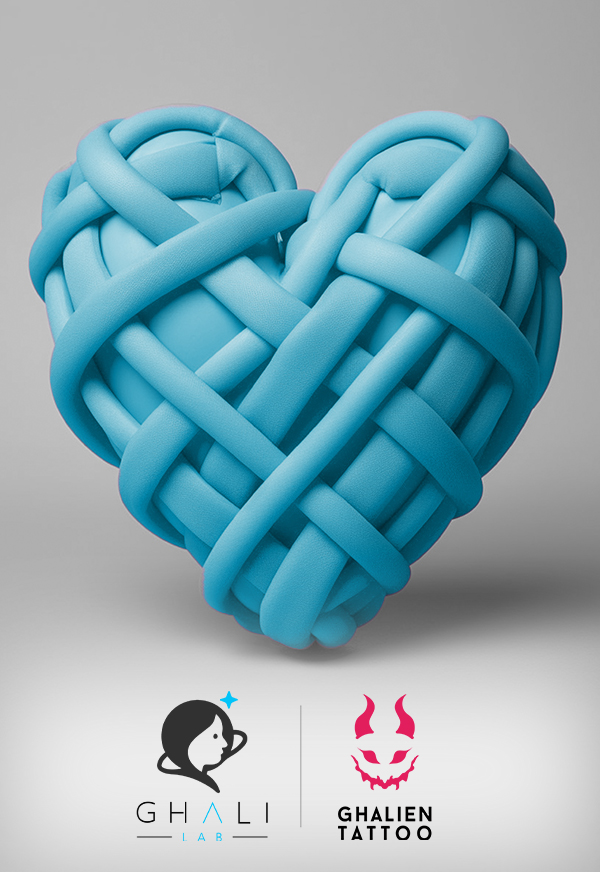
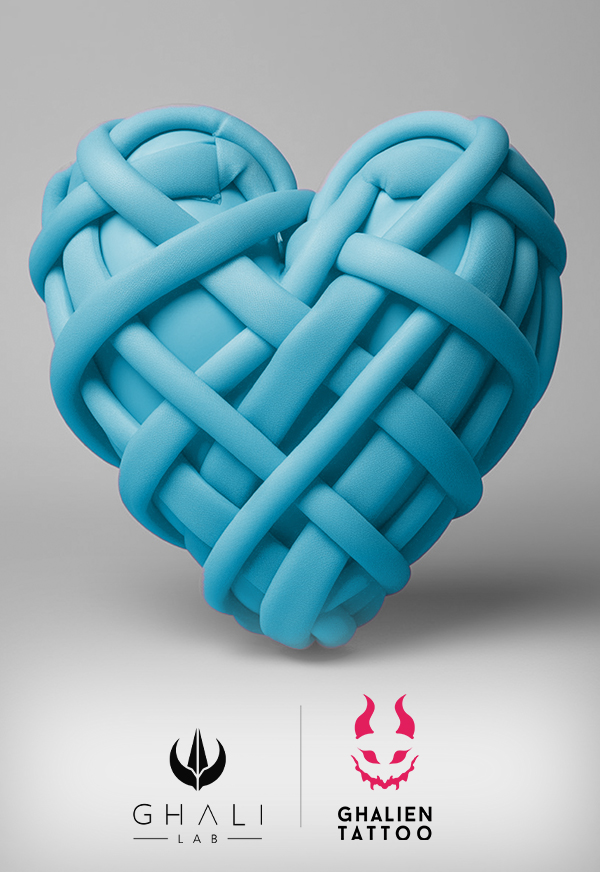
Update: Ghalilab

Changed region(s): [[0.21, 0.7741, 0.45, 0.9908]]

diff --git a/mysocial.html b/mysocial.html
@@ -287,7 +287,7 @@
           <span>Instagram</span>
         </a>
 
-        <a href="https://www.youtube.com/@StephGhalien" target="_blank" rel="noopener" class="socialhub-link-card">
+        <a href="https://www.youtube.com/@ghalilab" target="_blank" rel="noopener" class="socialhub-link-card">
           <i class="fab fa-youtube"></i>
           <span>YouTube</span>
         </a>
@@ -411,7 +411,7 @@
           <span>Instagram</span>
         </a>
 
-        <a href="https://www.youtube.com/@StephGhalien" target="_blank" rel="noopener" class="socialhub-link-card">
+        <a href="https://www.youtube.com/@ghalilab" target="_blank" rel="noopener" class="socialhub-link-card">
           <i class="fab fa-youtube"></i>
           <span>YouTube</span>
         </a>
@@ -652,7 +652,7 @@
             <a href="https://www.tiktok.com/@ghalilab" target="_blank" rel="noopener" aria-label="TikTok GHALI LAB">
               <i class="fab fa-tiktok"></i>
             </a>
-            <a href="https://www.youtube.com/@StephGhalien" target="_blank" rel="noopener" aria-label="YouTube Steph Ghalien">
+            <a href="https://www.youtube.com/@ghalilab" target="_blank" rel="noopener" aria-label="YouTube Steph Ghalien">
               <i class="fab fa-youtube"></i>
             </a>
             <span>|</span>

diff --git a/aboutme.html b/aboutme.html
@@ -469,7 +469,7 @@
             <a href="https://www.tiktok.com/@ghalilab" target="_blank" rel="noopener" aria-label="TikTok GHALI LAB">
               <i class="fab fa-tiktok"></i>
             </a>
-            <a href="https://www.youtube.com/@StephGhalien" target="_blank" rel="noopener" aria-label="YouTube Steph Ghalien">
+            <a href="https://www.youtube.com/@ghalilab" target="_blank" rel="noopener" aria-label="YouTube Steph Ghalien">
               <i class="fab fa-youtube"></i>
             </a>
             <span>|</span>

diff --git a/commissions.html b/commissions.html
@@ -498,7 +498,7 @@
             <a href="https://www.tiktok.com/@ghalilab" target="_blank" rel="noopener" aria-label="TikTok GHALI LAB">
               <i class="fab fa-tiktok"></i>
             </a>
-            <a href="https://www.youtube.com/@StephGhalien" target="_blank" rel="noopener" aria-label="YouTube Steph Ghalien">
+            <a href="https://www.youtube.com/@ghalilab" target="_blank" rel="noopener" aria-label="YouTube Steph Ghalien">
               <i class="fab fa-youtube"></i>
             </a>
             <span>|</span>

diff --git a/quoteprice.html b/quoteprice.html
@@ -323,7 +323,7 @@
             <a href="https://www.tiktok.com/@ghalilab" target="_blank" rel="noopener" aria-label="TikTok GHALI LAB">
               <i class="fab fa-tiktok"></i>
             </a>
-            <a href="https://www.youtube.com/@StephGhalien" target="_blank" rel="noopener" aria-label="YouTube Steph Ghalien">
+            <a href="https://www.youtube.com/@ghalilab" target="_blank" rel="noopener" aria-label="YouTube Steph Ghalien">
               <i class="fab fa-youtube"></i>
             </a>
             <span>|</span>

diff --git a/services.html b/services.html
@@ -363,7 +363,7 @@
             <a href="https://www.tiktok.com/@ghalilab" target="_blank" rel="noopener" aria-label="TikTok GHALI LAB">
               <i class="fab fa-tiktok"></i>
             </a>
-            <a href="https://www.youtube.com/@StephGhalien" target="_blank" rel="noopener" aria-label="YouTube Steph Ghalien">
+            <a href="https://www.youtube.com/@ghalilab" target="_blank" rel="noopener" aria-label="YouTube Steph Ghalien">
               <i class="fab fa-youtube"></i>
             </a>
             <span>|</span>

diff --git a/tattoo.html b/tattoo.html
@@ -393,7 +393,7 @@
             <a href="https://www.tiktok.com/@ghalilab" target="_blank" rel="noopener" aria-label="TikTok GHALI LAB">
               <i class="fab fa-tiktok"></i>
             </a>
-            <a href="https://www.youtube.com/@StephGhalien" target="_blank" rel="noopener" aria-label="YouTube Steph Ghalien">
+            <a href="https://www.youtube.com/@ghalilab" target="_blank" rel="noopener" aria-label="YouTube Steph Ghalien">
               <i class="fab fa-youtube"></i>
             </a>
             <span>|</span>

diff --git a/calculate.html b/calculate.html
@@ -1645,7 +1645,7 @@
             <a href="https://www.tiktok.com/@ghalilab" target="_blank" aria-label="TikTok">
               <i class="fab fa-tiktok"></i>
             </a>
-            <a href="https://www.youtube.com/@StephGhalien" target="_blank" aria-label="YouTube">
+            <a href="https://www.youtube.com/@ghalilab" target="_blank" aria-label="YouTube">
               <i class="fab fa-youtube"></i>
             </a> |
             <a href="https://www.youtube.com/@Ghaliensita" target="_blank" aria-label="YouTube">

diff --git a/ghalilab.html b/ghalilab.html
@@ -1303,7 +1303,7 @@
               <i class="fab fa-tiktok"></i>
             </a>
 
-            <a href="https://www.youtube.com/@StephGhalien" target="_blank" rel="noopener" aria-label="YouTube Steph Ghalien">
+            <a href="https://www.youtube.com/@ghalilab" target="_blank" rel="noopener" aria-label="YouTube Steph Ghalien">
               <i class="fab fa-youtube"></i>
             </a>
 

diff --git a/index.html b/index.html
@@ -827,7 +827,7 @@
               <i class="fab fa-tiktok"></i>
             </a>
 
-            <a href="https://www.youtube.com/@StephGhalien" target="_blank" rel="noopener" aria-label="YouTube Steph Ghalien">
+            <a href="https://www.youtube.com/@ghalilab" target="_blank" rel="noopener" aria-label="YouTube Steph Ghalien">
               <i class="fab fa-youtube"></i>
             </a>
 

diff --git a/paymethods.html b/paymethods.html
@@ -1070,7 +1070,7 @@
             </a>
 
             <a
-              href="https://www.youtube.com/@StephGhalien"
+              href="https://www.youtube.com/@ghalilab"
               target="_blank"
               rel="noopener"
               aria-label="YouTube Steph Ghalien"
